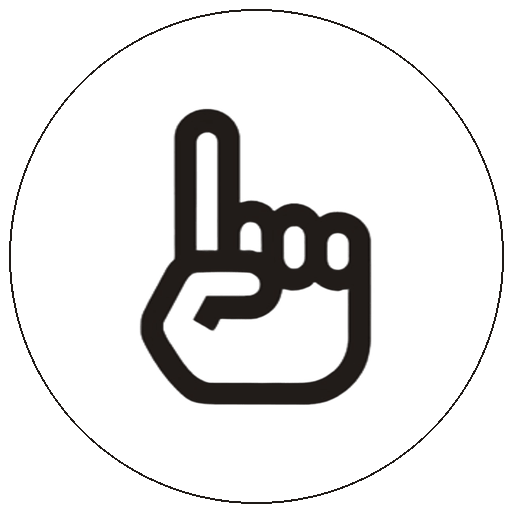
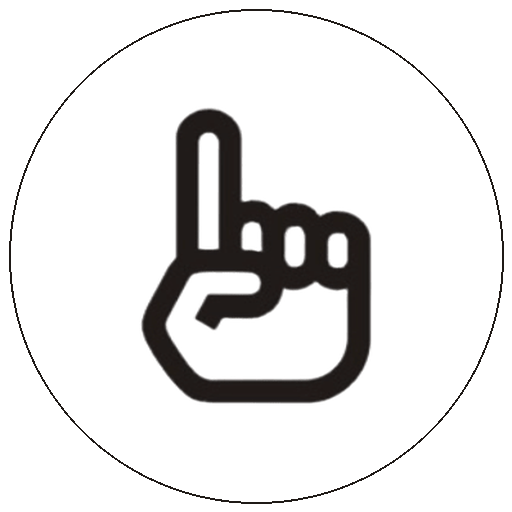
Corrige marca pra quarta evolução (a terceira estava errada)
Ref: logos e botoes/novo/quarta_evolucao_marca_vaikeuvou.png — arquivo
correto indicado pelo Luciano depois do commit anterior (c5bec7e) ter usado
o errado (terceira_marca_original.png). Mesmo processo: proporção real
mudou de novo (1457x401 -> 1230x315), width/height do next/image corrigidos
nos mesmos 13 lugares; ícone/favicon com círculo+anel redesenhado, símbolo
da mão extraído direto deste arquivo (não reaproveitei vaikeuvou_simbolo.png
de 24/set, que era da leva anterior); logo-vertical reconstruído reusando
as mesmas faixas de texto originais.

diff --git a/components/InfoPageShell.tsx b/components/InfoPageShell.tsx
@@ -22,7 +22,7 @@ export default function InfoPageShell({ title, userName, userAvatar, podeCriarPo
           <>
             <div className="flex items-center justify-between mb-6">
               <a href="https://vaikeuvou.app" className="flex-shrink-0">
-                <Image src="/logo.png" alt="vaikeuvou" width={1457} height={401} className="h-[43px] md:h-[47px] w-auto -mt-[15px]" />
+                <Image src="/logo.png" alt="vaikeuvou" width={1230} height={315} className="h-[43px] md:h-[47px] w-auto -mt-[15px]" />
               </a>
               <ProfilePopover userName={userName} userAvatar={userAvatar} podeCriarPost={podeCriarPost} />
             </div>
@@ -37,7 +37,7 @@ export default function InfoPageShell({ title, userName, userAvatar, podeCriarPo
           <div className="flex flex-col md:flex-row md:items-center gap-x-2 gap-y-1 mb-8">
             <div className="flex items-center justify-between md:contents">
               <a href="https://vaikeuvou.app" className="flex-shrink-0">
-                <Image src="/logo.png" alt="vaikeuvou" width={1457} height={401} className="h-[43px] md:h-[47px] w-auto -mt-[15px]" />
+                <Image src="/logo.png" alt="vaikeuvou" width={1230} height={315} className="h-[43px] md:h-[47px] w-auto -mt-[15px]" />
               </a>
               <div className="flex items-center gap-1 md:hidden">
                 <ProfilePopover userName={userName} userAvatar={userAvatar} podeCriarPost={podeCriarPost} />

diff --git a/app/dashboard/[edit_token]/convidados/page.tsx b/app/dashboard/[edit_token]/convidados/page.tsx
@@ -122,7 +122,7 @@ export default async function ConvidadosPage({ params }: Props) {
         <div className="flex flex-col md:flex-row md:items-center gap-x-2 gap-y-1 mb-8">
           <div className="flex items-center justify-between md:contents">
             <a href="https://vaikeuvou.app" className="flex-shrink-0">
-              <Image src="/logo.png" alt="vaikeuvou" width={1457} height={401} className="h-[43px] md:h-[47px] w-auto -mt-[15px]" />
+              <Image src="/logo.png" alt="vaikeuvou" width={1230} height={315} className="h-[43px] md:h-[47px] w-auto -mt-[15px]" />
             </a>
             <div className="flex items-center gap-1 md:hidden">
               <ProfilePopover userName={session?.users.name ?? null} userAvatar={session?.users.avatar_url ?? null} podeCriarPost={canAccessPautas(session?.users)} />

diff --git a/app/meus-convites/page.tsx b/app/meus-convites/page.tsx
@@ -61,7 +61,7 @@ export default async function MeusEventosPage({ searchParams }: Props) {
           <div className="flex flex-col md:flex-row md:items-center gap-x-2 gap-y-1">
             <div className="flex items-center justify-between md:contents">
               <a href="https://vaikeuvou.app" className="flex-shrink-0">
-                <Image src="/logo.png" alt="vaikeuvou" width={1457} height={401} className="h-[43px] md:h-[47px] w-auto -mt-[15px]" />
+                <Image src="/logo.png" alt="vaikeuvou" width={1230} height={315} className="h-[43px] md:h-[47px] w-auto -mt-[15px]" />
               </a>
               <div className="flex items-center gap-1 md:hidden">
                 <ProfilePopover userName={user.name} userAvatar={user.avatar_url} podeCriarPost={podeCriarPost} />

diff --git a/app/criar/CriarClient.tsx b/app/criar/CriarClient.tsx
@@ -148,7 +148,7 @@ export default function CriarClient({ userName, userAvatar, userBio, userInstagr
         <div className="flex flex-col md:flex-row md:items-center gap-x-2 gap-y-1 mb-8">
           <div className="flex items-center justify-between md:contents">
             <a href="https://vaikeuvou.app" className="flex-shrink-0">
-              <Image src="/logo.png" alt="vaikeuvou" width={1457} height={401} className="h-[43px] md:h-[47px] w-auto -mt-[15px]" />
+              <Image src="/logo.png" alt="vaikeuvou" width={1230} height={315} className="h-[43px] md:h-[47px] w-auto -mt-[15px]" />
             </a>
             <div className="flex items-center gap-1 md:hidden">
               <ProfilePopover userName={userName} userAvatar={userAvatar} podeCriarPost={podeCriarPost} />

diff --git a/app/dashboard/[edit_token]/DashboardClient.tsx b/app/dashboard/[edit_token]/DashboardClient.tsx
@@ -170,7 +170,7 @@ export default function DashboardClient({ evento, rsvps, isNovo, userName, userA
         <div className="flex flex-col md:flex-row md:items-center gap-x-2 gap-y-1 mb-8">
           <div className="flex items-center justify-between md:contents">
             <a href="https://vaikeuvou.app" className="flex-shrink-0">
-              <Image src="/logo.png" alt="vaikeuvou" width={1457} height={401} className="h-[43px] md:h-[47px] w-auto -mt-[15px]" />
+              <Image src="/logo.png" alt="vaikeuvou" width={1230} height={315} className="h-[43px] md:h-[47px] w-auto -mt-[15px]" />
             </a>
             <div className="flex items-center gap-1 md:hidden">
               <ProfilePopover userName={userName} userAvatar={userAvatar} podeCriarPost={podeCriarPost} />

diff --git a/app/login/page.tsx b/app/login/page.tsx
@@ -45,7 +45,7 @@ function LoginForm() {
           <div className="w-full md:w-1/2 md:flex md:flex-col md:justify-center md:bg-white md:p-10 space-y-6">
             <div className="text-center">
               <a href="https://vaikeuvou.app" className="inline-block mb-5">
-                <Image src="/logo.png" alt="vaikeuvou" width={1457} height={401} className="h-[43px] w-auto mx-auto" />
+                <Image src="/logo.png" alt="vaikeuvou" width={1230} height={315} className="h-[43px] w-auto mx-auto" />
               </a>
               <h1 className="text-2xl font-extrabold text-gray-900">Entrar</h1>
               <p className="text-gray-400 text-sm mt-1">Vamos te enviar um código no WhatsApp</p>

diff --git a/app/login/verificar/page.tsx b/app/login/verificar/page.tsx
@@ -92,7 +92,7 @@ function VerificarForm() {
           <div className="w-full md:w-1/2 md:flex md:flex-col md:justify-center md:bg-white md:p-10 space-y-6">
             <div className="text-center">
               <a href="https://vaikeuvou.app" className="inline-block mb-5">
-                <Image src="/logo.png" alt="vaikeuvou" width={1457} height={401} className="h-[43px] w-auto mx-auto" />
+                <Image src="/logo.png" alt="vaikeuvou" width={1230} height={315} className="h-[43px] w-auto mx-auto" />
               </a>
               <h1 className="text-2xl font-extrabold text-gray-900">Código enviado!</h1>
               <p className="text-gray-400 text-sm mt-1">

diff --git a/app/e/[slug]/EventoClient.tsx b/app/e/[slug]/EventoClient.tsx
@@ -184,7 +184,7 @@ export default function EventoClient({ evento, rsvps, parentRsvpId, criador, con
         <div className="px-6 pt-6 pb-8 bg-gradient-to-b from-white to-[#fcede1]">
 
           {/* Marca */}
-          <Image src="/logo.png" alt="vaikeuvou" width={1457} height={401} className="w-[250px] max-w-full h-auto mb-4" />
+          <Image src="/logo.png" alt="vaikeuvou" width={1230} height={315} className="w-[250px] max-w-full h-auto mb-4" />
 
           {/* Título — continua a frase do wordmark: "vai que eu vou" + título */}
           <h1 className="text-3xl font-bold leading-tight text-gray-900 mb-3">{evento.title}</h1>

diff --git a/app/checkin/[rsvp_id]/CheckinClient.tsx b/app/checkin/[rsvp_id]/CheckinClient.tsx
@@ -47,7 +47,7 @@ export default function CheckinClient({ rsvpId, userName, eventoTitulo, jaConfir
   return (
     <div className="min-h-screen flex flex-col items-center bg-[#fcede1]">
       <div className="relative w-full max-w-lg bg-white sm:my-8 sm:rounded-lg sm:shadow-xl overflow-hidden px-6 pt-8 pb-8">
-        <Image src="/logo.png" alt="vaikeuvou" width={1457} height={401} className="w-[200px] max-w-full h-auto mb-6" />
+        <Image src="/logo.png" alt="vaikeuvou" width={1230} height={315} className="w-[200px] max-w-full h-auto mb-6" />
 
         {etapa === 'inicial' && (
           <div className="space-y-4">

diff --git a/components/EventPreviewCard.tsx b/components/EventPreviewCard.tsx
@@ -26,7 +26,7 @@ export default function EventPreviewCard({ form, userName, userAvatar, userBio, 
       </div>
 
       <div className="px-5 pt-5 pb-6 bg-gradient-to-b from-white to-[#fcede1]">
-        <Image src="/logo.png" alt="vaikeuvou" width={1457} height={401} className="h-7 w-auto mb-0.5" />
+        <Image src="/logo.png" alt="vaikeuvou" width={1230} height={315} className="h-7 w-auto mb-0.5" />
         <h1 className={`text-xl font-bold leading-tight mb-3 ${hasTitle ? 'text-gray-900' : 'text-gray-300'}`}>
           {hasTitle ? form.title : 'Nome do evento'}
         </h1>

diff --git a/app/embed/perfil/page.tsx b/app/embed/perfil/page.tsx
@@ -58,7 +58,7 @@ export default async function EmbedPerfilPage({ searchParams }: Props) {
     return (
       <div className="p-4 flex flex-col items-center text-center gap-4">
         {!nologo && (
-          <Image src="/logo.png" alt="vaikeuvou" width={1457} height={401} className="h-10 w-auto" />
+          <Image src="/logo.png" alt="vaikeuvou" width={1230} height={315} className="h-10 w-auto" />
         )}
         <p className="text-gray-400 text-[13px] leading-relaxed">
           Organize seus eventos e compartilhe com seus contatos de forma gratuita. Experimente
